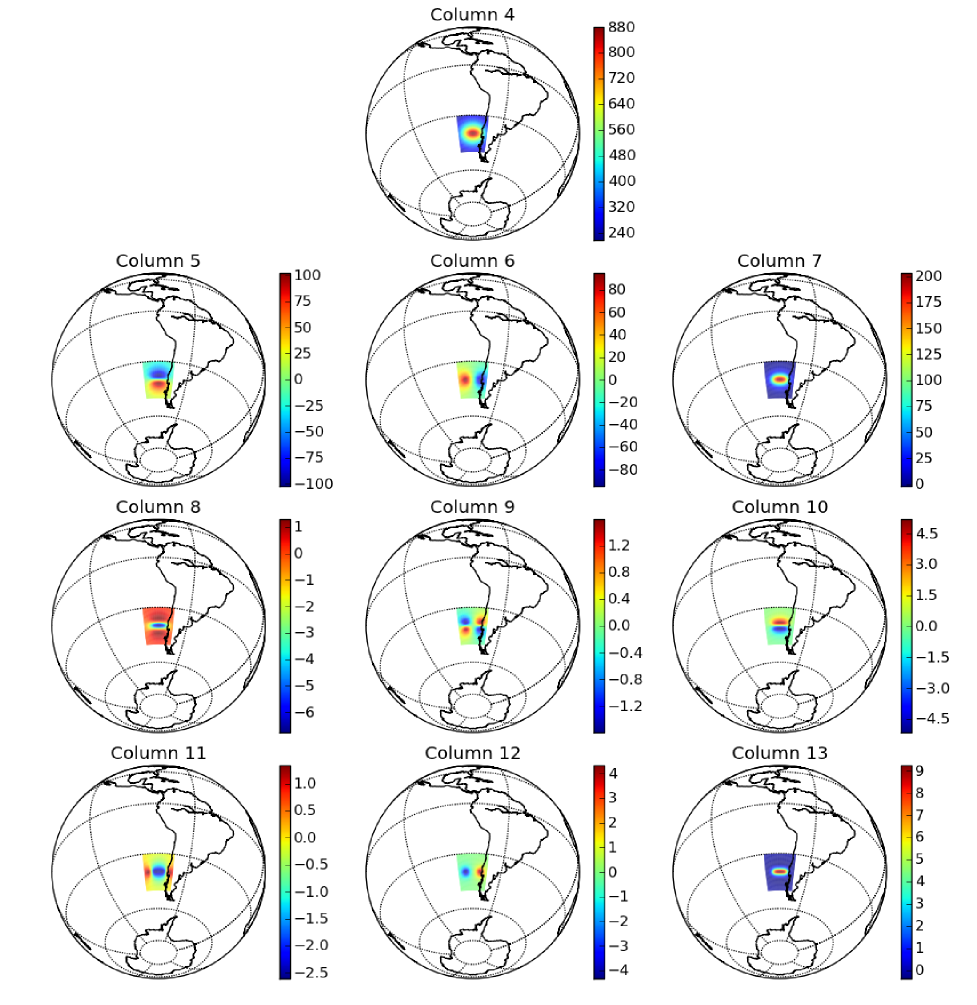
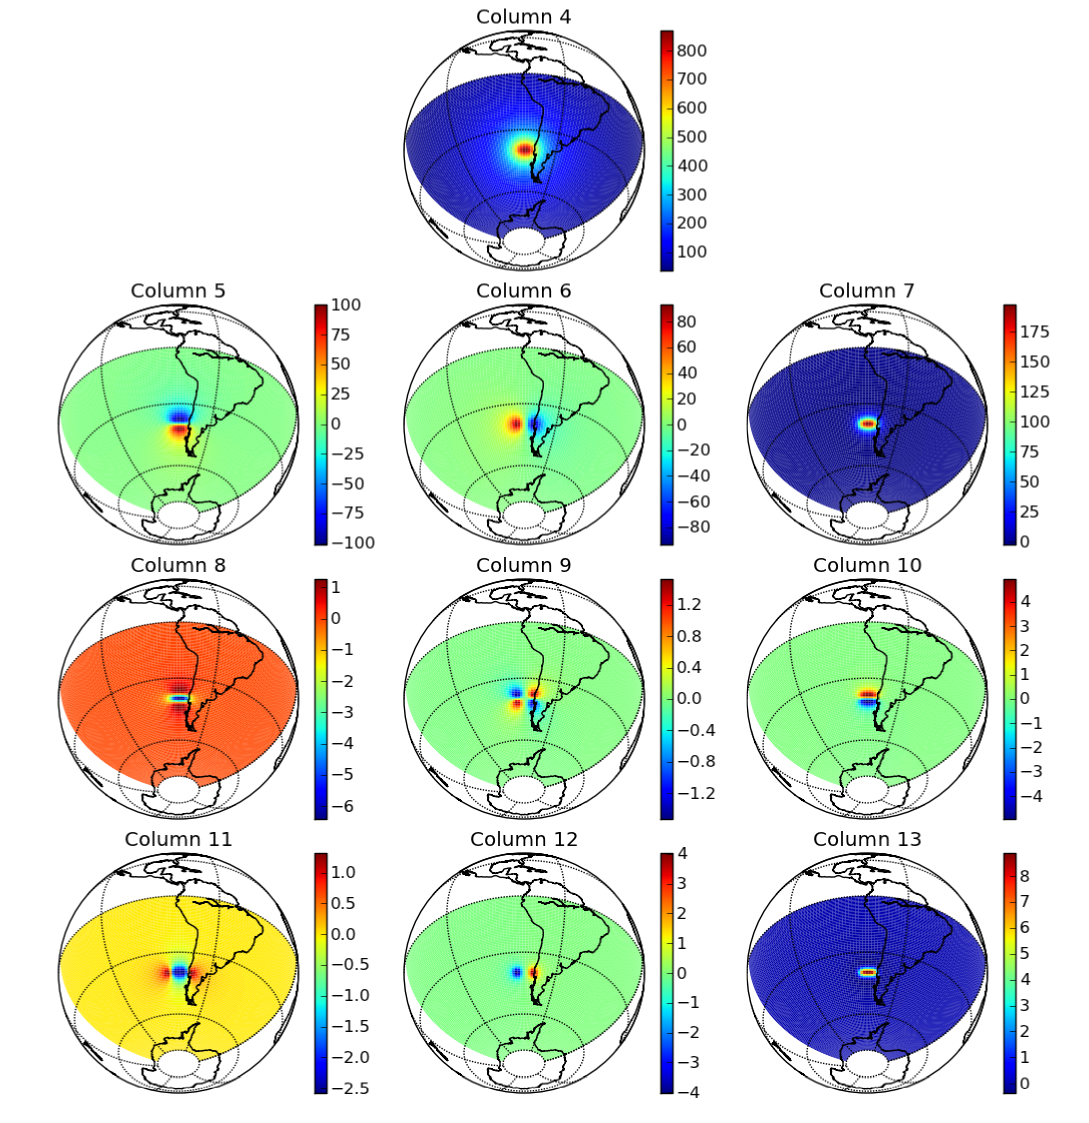
Bug fix: prismpot, gx, gy, gz and gxy had problems when zp > prism.z1. A log(z + r) was turning out to be 0 and causing problems. Added unit tests to catch errors

diff --git a/test/test_grav_prism.c b/test/test_grav_prism.c
@@ -17,7 +17,7 @@ static char * test_pot_bellow()
     PRISM prism = {3000,-5000,5000,-5000,5000,-5000,5000,0,0,0};
     double dist, restop, resbellow;
     
-    for(dist=50000; dist <= 500000; dist += 500)
+    for(dist=5010; dist <= 500000; dist += 100)
     {
         restop = prism_pot(prism, 0, 0, -dist);
         resbellow = prism_pot(prism, 0, 0, dist);
@@ -36,7 +36,7 @@ static char * test_gx_bellow()
     PRISM prism = {3000,-5000,5000,-5000,5000,-5000,5000,0,0,0};
     double dist, restop, resbellow;
     
-    for(dist=50000; dist <= 500000; dist += 500)
+    for(dist=5010; dist <= 500000; dist += 100)
     {
         restop = prism_gx(prism, 5000, 0, -dist);
         resbellow = prism_gx(prism, 5000, 0, dist);
@@ -55,7 +55,7 @@ static char * test_gy_bellow()
     PRISM prism = {3000,-5000,5000,-5000,5000,-5000,5000,0,0,0};
     double dist, restop, resbellow;
     
-    for(dist=50000; dist <= 500000; dist += 500)
+    for(dist=5010; dist <= 500000; dist += 100)
     {
         restop = prism_gy(prism, 0, 5000, -dist);
         resbellow = prism_gy(prism, 0, 5000, dist);
@@ -74,7 +74,7 @@ static char * test_gz_bellow()
     PRISM prism = {3000,-5000,5000,-5000,5000,-5000,5000,0,0,0};
     double dist, restop, resbellow;
     
-    for(dist=50000; dist <= 500000; dist += 500)
+    for(dist=5010; dist <= 500000; dist += 100)
     {
         restop = prism_gz(prism, 0, 0,-dist);
         resbellow = prism_gz(prism, 0, 0, dist);
@@ -93,7 +93,7 @@ static char * test_gxx_bellow()
     PRISM prism = {3000,-5000,5000,-5000,5000,-5000,5000,0,0,0};
     double dist, restop, resbellow;
     
-    for(dist=50000; dist <= 500000; dist += 500)
+    for(dist=5010; dist <= 500000; dist += 100)
     {
         restop = prism_gxx(prism, 0, 0,-dist);
         resbellow = prism_gxx(prism, 0, 0, dist);
@@ -112,9 +112,9 @@ static char * test_gxy_bellow()
     PRISM prism = {3000,-5000,5000,-5000,5000,-5000,5000,0,0,0};
     double dist, restop, resbellow;
     
-    for(dist=50000; dist <= 500000; dist += 500)
+    for(dist=5010; dist <= 500000; dist += 100)
     {
-        restop = prism_gxy(prism, 5000, 5000,-dist);
+        restop = prism_gxy(prism, 5000, 5000, -dist);
         resbellow = prism_gxy(prism, 5000, 5000, dist);
 
         sprintf(msg, "(distance %g m) top = %.5f  bellow = %.5f", dist,
@@ -131,7 +131,7 @@ static char * test_gxz_bellow()
     PRISM prism = {3000,-5000,5000,-5000,5000,-5000,5000,0,0,0};
     double dist, restop, resbellow;
     
-    for(dist=50000; dist <= 500000; dist += 500)
+    for(dist=5010; dist <= 500000; dist += 100)
     {
         restop = prism_gxz(prism, 5000, 0,-dist);
         resbellow = prism_gxz(prism, 5000, 0, dist);
@@ -150,7 +150,7 @@ static char * test_gyy_bellow()
     PRISM prism = {3000,-5000,5000,-5000,5000,-5000,5000,0,0,0};
     double dist, restop, resbellow;
     
-    for(dist=50000; dist <= 500000; dist += 500)
+    for(dist=5010; dist <= 500000; dist += 100)
     {
         restop = prism_gyy(prism, 0, 0,-dist);
         resbellow = prism_gyy(prism, 0, 0, dist);
@@ -169,7 +169,7 @@ static char * test_gyz_bellow()
     PRISM prism = {3000,-5000,5000,-5000,5000,-5000,5000,0,0,0};
     double dist, restop, resbellow;
     
-    for(dist=50000; dist <= 500000; dist += 500)
+    for(dist=5010; dist <= 500000; dist += 100)
     {
         restop = prism_gyz(prism, 0, 5000, -dist);
         resbellow = prism_gyz(prism, 0, 5000, dist);
@@ -188,7 +188,7 @@ static char * test_gzz_bellow()
     PRISM prism = {3000,-5000,5000,-5000,5000,-5000,5000,0,0,0};
     double dist, restop, resbellow;
     
-    for(dist=50000; dist <= 500000; dist += 500)
+    for(dist=5010; dist <= 500000; dist += 100)
     {
         restop = prism_gzz(prism, 0, 0, -dist);
         resbellow = prism_gzz(prism, 0, 0, dist);

diff --git a/src/lib/grav_prism.c b/src/lib/grav_prism.c
@@ -24,8 +24,16 @@ References
 double prism_pot(PRISM prism, double xp, double yp, double zp)
 {
     double x[2], y[2], z[2], kernel, res, r;
-    register int i, j, k;
+    register int i, j, k; 
 
+    /* This field has a problem with the log(z+r) when zp > z1 */
+    /* Changing the sign is not a problem since the potential should be equal
+    on top or bellow */
+    if(zp > prism.z1)
+    {
+        zp = -zp;
+    }
+    
     /* First thing to do is make P the origin of the coordinate system */
     x[0] = prism.x1 - xp;
     x[1] = prism.x2 - xp;
@@ -45,12 +53,12 @@ double prism_pot(PRISM prism, double xp, double yp, double zp)
             {
                 r = sqrt(x[i]*x[i] + y[j]*y[j] + z[k]*z[k]);
 
-                kernel = 1*(-x[i]*y[j]*log(z[k] + r)
+                kernel = -x[i]*y[j]*log(z[k] + r)
                          - y[j]*z[k]*log(x[i] + r)
                          - x[i]*z[k]*log(y[j] + r)
                          + 0.5*x[i]*x[i]*atan2(z[k]*y[j], x[i]*r)
                          + 0.5*y[j]*y[j]*atan2(z[k]*x[i], y[j]*r)
-                         + 0.5*z[k]*z[k]*atan2(x[i]*y[j], z[k]*r));
+                         + 0.5*z[k]*z[k]*atan2(x[i]*y[j], z[k]*r);
 
                 res += pow(-1, i + j + k)*kernel;
             }
@@ -71,6 +79,14 @@ double prism_gx(PRISM prism, double xp, double yp, double zp)
     double x[2], y[2], z[2], kernel, res, r;
     register int i, j, k;
 
+    /* This field has a problem with the log(z+r) when zp > z1 */
+    /* Changing the sign is not a problem since the gx should be equal
+    on top or bellow */
+    if(zp > prism.z1)
+    {
+        zp = -zp;
+    }
+    
     /* First thing to do is make P the origin of the coordinate system */
     x[0] = prism.x1 - xp;
     x[1] = prism.x2 - xp;
@@ -112,6 +128,14 @@ double prism_gy(PRISM prism, double xp, double yp, double zp)
     double x[2], y[2], z[2], kernel, res, r;
     register int i, j, k;
 
+    /* This field has a problem with the log(z+r) when zp > z1 */
+    /* Changing the sign is not a problem since the gy should be equal
+    on top or bellow */
+    if(zp > prism.z1)
+    {
+        zp = -zp;
+    }
+    
     /* First thing to do is make P the origin of the coordinate system */
     x[0] = prism.x1 - xp;
     x[1] = prism.x2 - xp;
@@ -153,6 +177,13 @@ double prism_gz(PRISM prism, double xp, double yp, double zp)
     double x[2], y[2], z[2], kernel, res, r;
     register int i, j, k;
 
+    /* This field has a problem with the log(z+r) when zp > z1 */
+    /* Will correct for the change in sign before returning */
+    if(zp > prism.z1)
+    {
+        zp = -zp;
+    }
+    
     /* First thing to do is make P the origin of the coordinate system */
     x[0] = prism.x1 - xp;
     x[1] = prism.x2 - xp;
@@ -183,6 +214,12 @@ double prism_gz(PRISM prism, double xp, double yp, double zp)
     /* Now all that is left is to multiply res by the gravitational constant and
        density and convert it to mGal units */
     res *= G*SI2MGAL*prism.density;
+
+    /* Need to correct for the fact that I changed the sign of zp */
+    if(zp > prism.z1)
+    {
+        res = -res;
+    }
 
     return res;
 }
@@ -249,6 +286,14 @@ double prism_gxy(PRISM prism, double xp, double yp, double zp)
 {
     double r, res, deltax1, deltax2, deltay1, deltay2, deltaz1, deltaz2;
 
+    /* This field has a problem with the log(z+r) when zp > z1 */
+    /* Changing the sign is not a problem since the gxy should be equal
+    on top or bellow */
+    if(zp > prism.z1)
+    {
+        zp = -zp;
+    }
+    
     /* First thing to do is make P the origin of the coordinate system */
     deltax1 = prism.x1 - xp;
     deltax2 = prism.x2 - xp;

diff --git a/doc/changes.rst b/doc/changes.rst
@@ -19,6 +19,10 @@ Changes in version 1.1
   in spherical coordinates.
   These programs are compatible with the output of tess2prism
   (see :ref:`this recipe <recipe_tess2prism>` for an example).
+* Bug fix: prismpot, prismgx, prismgy, prismgz, and prismgxy had problems with
+  a log(z + r) when the computation point was bellow the top of the prism
+  (zp > prism.z1). Fixed by calculating on top of the prism when this happens,
+  then changing the sign of the result when needed (only for gz).
 
   
 Changes in version 1.0
